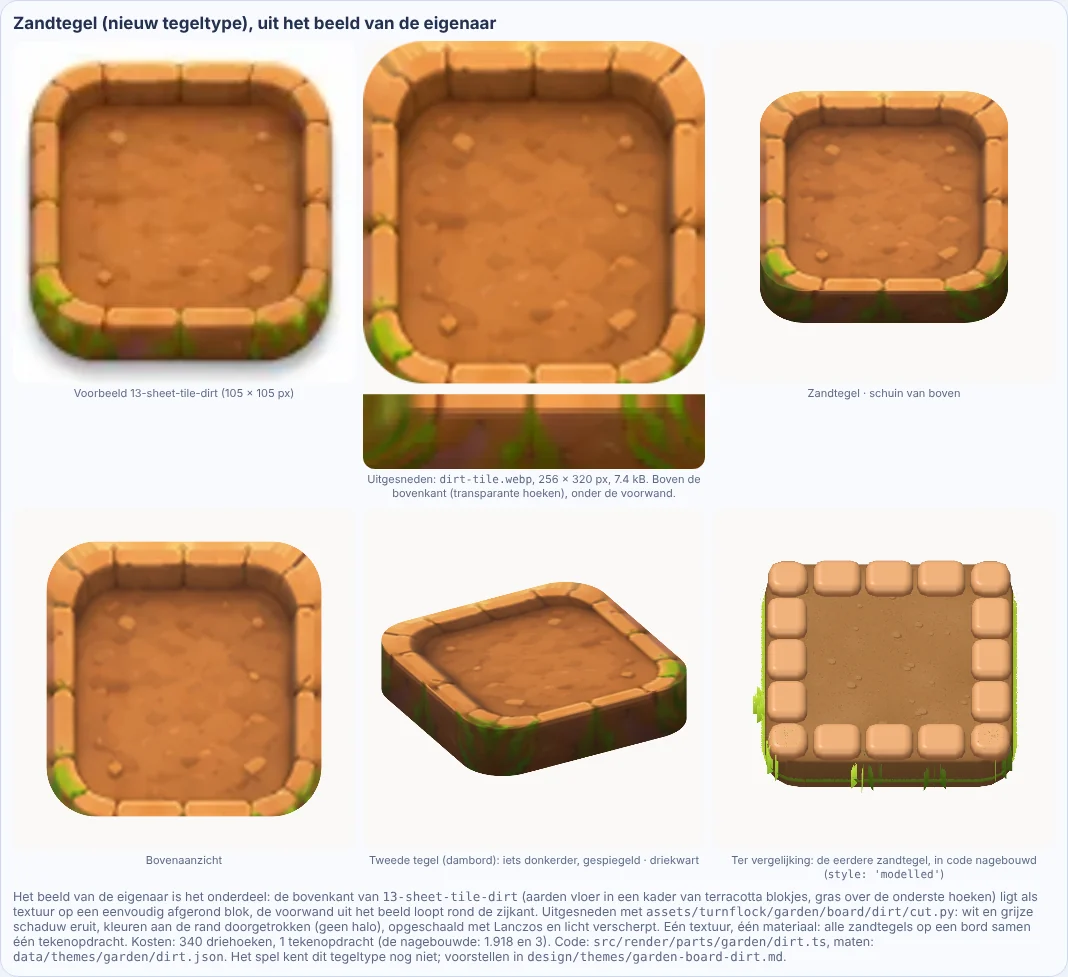
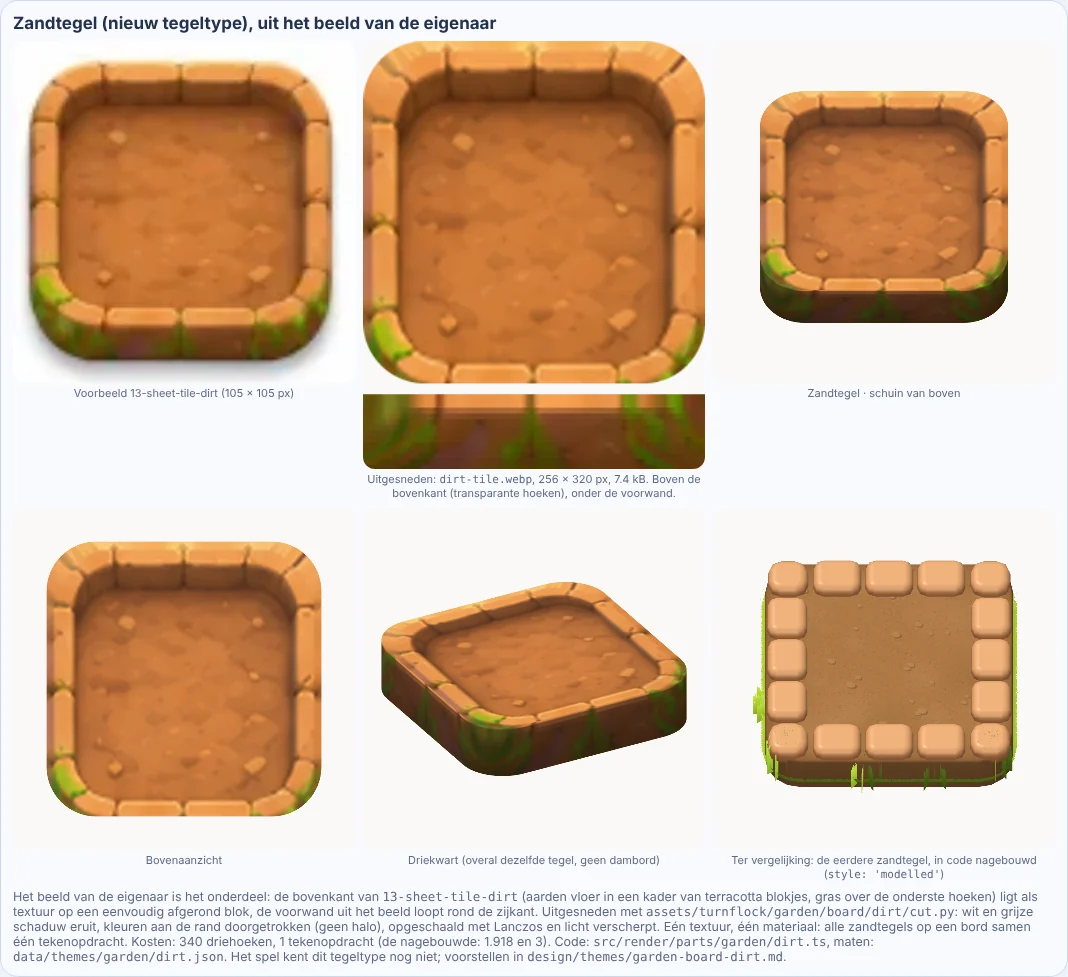
feat: dirt tile follows the one-tile garden board (no checkerboard)
The owner chose one grass tile everywhere, as in 01-board-full. The dirt
tile follows: alt stays in the signature but gives the same tile;
picture.checker brings the darker, mirrored second tile back.

Design: design/themes/garden-board-dirt.md

Claude-Session: https://claude.ai/code/session_01PBSmYtAo3rMFrLCNPGsYKf

Changed region(s): [[0.3708, 0.8598, 0.6489, 0.8905], [0.3708, 0.6448, 0.4944, 0.7369], [0.5562, 0.6141, 0.6489, 0.7062]]

diff --git a/src/render/parts/garden/dirt.ts b/src/render/parts/garden/dirt.ts
@@ -103,15 +103,18 @@ export function dirtBlock(mirror: boolean, tint: string): THREE.BufferGeometry {
 /**
  * 1c. Dirt tile: the owner's picture `13-sheet-tile-dirt` on a plain rounded block: an earthen
  * floor in a frame of terracotta blocks, grass over the near corners. Same size and height as the
- * grass tile. `alt` is the checkerboard's second tile: a touch darker and mirrored left to right.
+ * grass tile. `alt` is kept for the contract but, as with the grass tile (the owner chose one tile
+ * everywhere, as in `01-board-full`), gives the same tile; `picture.checker: true` brings back a
+ * checkerboard second tile, a touch darker and mirrored left to right.
  * `style: 'modelled'` gives the earlier tile modelled in code instead (`buildDirtTileModelled`).
  * A new tile type: the game has no rule for it yet (see `design/themes/garden-board-dirt.md`).
  */
 export function buildDirtTile(alt = false, pegs = true, style: 'picture' | 'modelled' = 'picture'): THREE.Group {
   if (style === 'modelled') return buildDirtTileModelled(alt, pegs);
-  const tint = alt ? `#${new THREE.Color('#FFFFFF').multiplyScalar(P.altShade).getHexString()}` : '#FFFFFF';
+  const second = alt && P.checker;
+  const tint = second ? `#${new THREE.Color('#FFFFFF').multiplyScalar(P.altShade).getHexString()}` : '#FFFFFF';
   const tile = new THREE.Group();
-  tile.add(new THREE.Mesh(once(`dirt-picture-${alt ? 'alt' : 'main'}`, () => dirtBlock(alt, tint)), dirtMaterial));
+  tile.add(new THREE.Mesh(once(`dirt-picture-${second ? 'alt' : 'main'}`, () => dirtBlock(second, tint)), dirtMaterial));
   if (pegs) addPegs(tile, plainMaterial);
   return shadowed(tile);
 }

diff --git a/src/parts/garden-board/dirt.ts b/src/parts/garden-board/dirt.ts
@@ -66,7 +66,7 @@ export function addDirtTileCards(sheet: HTMLElement): void {
       </div>
       <div class="gb-row three">
         ${figure(still(buildDirtTile(false, false), VIEWS.top, PX, 0.56), 'Bovenaanzicht')}
-        ${figure(still(buildDirtTile(true, false), VIEWS.quarter, PX, 0.62), 'Tweede tegel (dambord): iets donkerder, gespiegeld · driekwart')}
+        ${figure(still(buildDirtTile(false, false), VIEWS.quarter, PX, 0.62), 'Driekwart (overal dezelfde tegel, geen dambord)')}
         ${figure(still(buildDirtTileModelled(false, true), VIEWS.close, PX, 0.62), 'Ter vergelijking: de eerdere zandtegel, in code nagebouwd (<code>style: \'modelled\'</code>)')}
       </div>
       <p class="note">Het beeld van de eigenaar is het onderdeel: de bovenkant van <code>13-sheet-tile-dirt</code> (aarden vloer in een kader van terracotta blokjes, gras over de onderste hoeken) ligt als textuur op een eenvoudig afgerond blok, de voorwand uit het beeld loopt rond de zijkant. Uitgesneden met <code>assets/turnflock/garden/board/dirt/cut.py</code>: wit en grijze schaduw eruit, kleuren aan de rand doorgetrokken (geen halo), opgeschaald met Lanczos en licht verscherpt. Eén textuur, één materiaal: alle zandtegels op een bord samen één tekenopdracht. Kosten: ${fmt(tileCost.tris)} driehoeken, ${tileCost.draws} tekenopdracht (de nagebouwde: ${fmt(oldCost.tris)} en ${oldCost.draws}). Code: <code>src/render/parts/garden/dirt.ts</code>, maten: <code>data/themes/garden/dirt.json</code>. Het spel kent dit tegeltype nog niet; voorstellen in <code>design/themes/garden-board-dirt.md</code>.</p>`;

diff --git a/tests/unit/garden-dirt.test.ts b/tests/unit/garden-dirt.test.ts
@@ -88,7 +88,12 @@ describe('garden dirt tile (the owner\'s picture)', () => {
     }
   });
 
-  it('mirrors the picture on the second tile, keeping the grass on the near side', () => {
+  it('gives the same tile for alt, as the grass tile does (no checkerboard) unless picture.checker is on', () => {
+    expect(DIRT.picture.checker).toBe(false);
+    expect(block(true).geometry).toBe(block(false).geometry);
+  });
+
+  it('can mirror the picture for a checkerboard tile, keeping the grass on the near side', () => {
     const plain = vertices(dirtBlock(false, '#FFFFFF'));
     const mirrored = vertices(dirtBlock(true, '#FFFFFF'));
     for (let i = 0; i < plain.length; i++) {

diff --git a/design/themes/garden-board-dirt.md b/design/themes/garden-board-dirt.md
@@ -30,8 +30,10 @@ Part of the garden board (`design/themes/garden-board.md`). Reference: `13-sheet
 - **Light.** The picture is lit as the grass tiles are (standard material, same lights), so it sits
   in the same light as its neighbours. `picture.brightness` (1.05) brings its floor to the
   reference's colour under the parts page's light (measured: floor 204/121/55 in the reference).
-- **Checkerboard.** The second tile (`alt`) is 6% darker (`picture.altShade`) and mirrored left to
-  right, so the grass stays on the near side.
+- **No checkerboard.** The owner chose one grass tile everywhere, as in `01-board-full` (grass tile
+  session, 2026-11-24). The dirt tile follows: `alt` is kept in the signature but gives the same
+  tile. `picture.checker: true` brings back a second tile, 6% darker (`picture.altShade`) and
+  mirrored left to right so the grass stays on the near side.
 - **Loading.** The picture loads a moment after start-up. Until then the tile shows in a plain soil
   colour (`picture.fallback`); `dirtTileReady` (from `src/render/parts/garden/dirt.ts`) settles when
   the picture is on. In the game this is a flicker of a frame or two at most; anything that draws a
